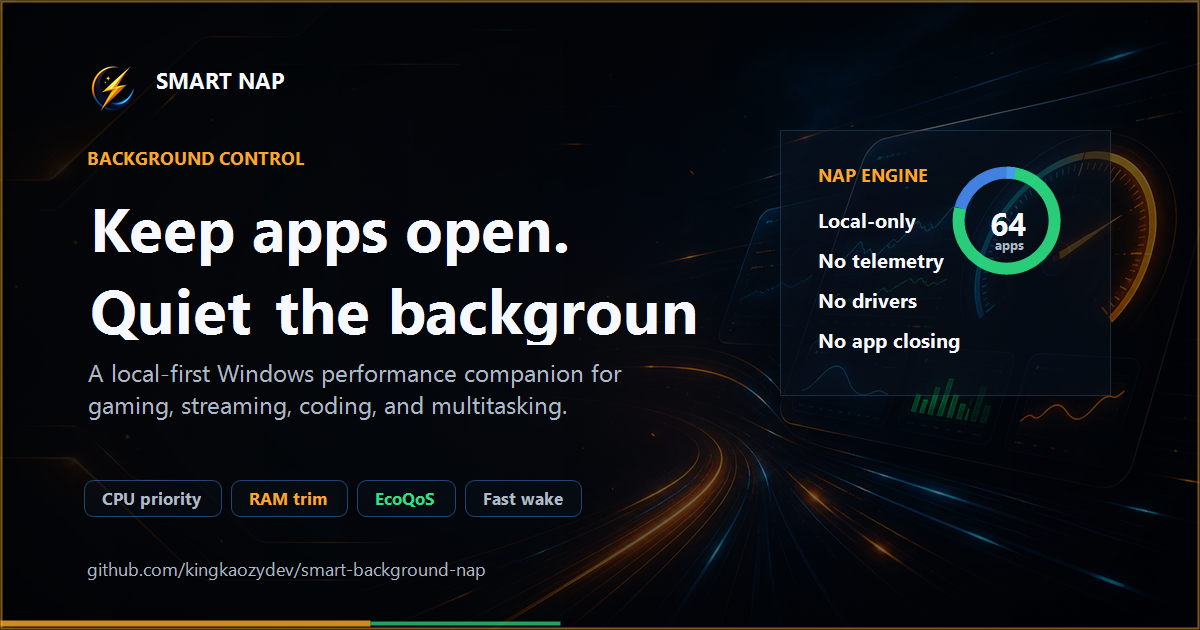
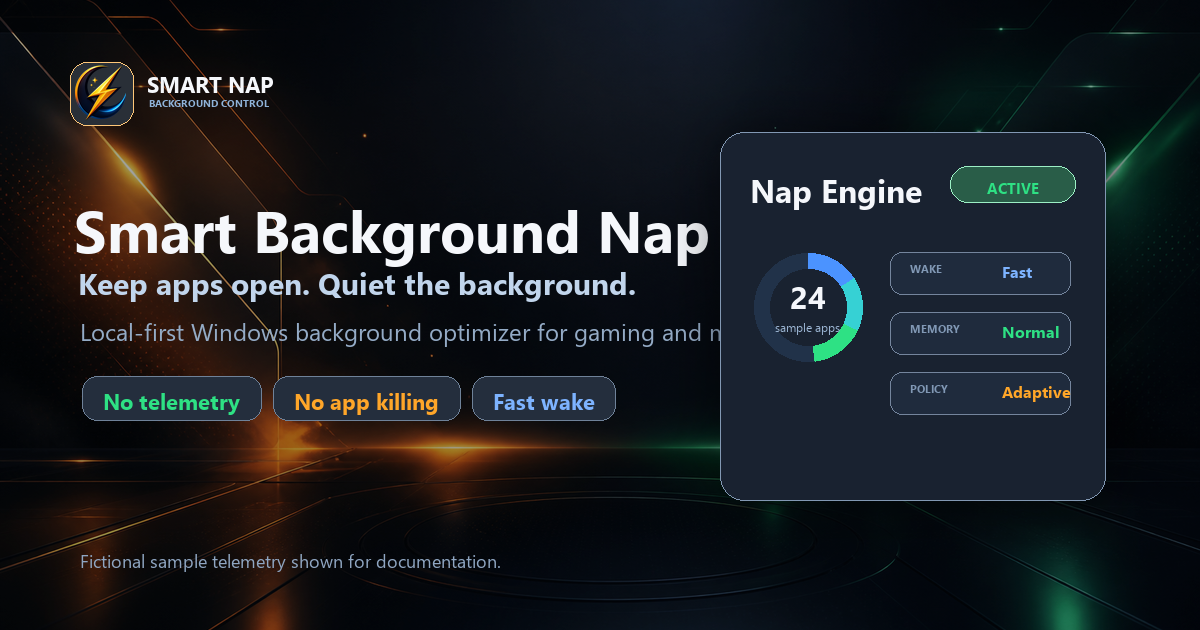
Anonymize public documentation examples

diff --git a/src/launcher/dashboard.html b/src/launcher/dashboard.html
@@ -214,7 +214,7 @@ button{font:inherit}
     <p data-i18n="learningModalBody">This optional mode learns how your apps behave and adapts future nap passes without sending data anywhere.</p>
     <ul class="infoList">
       <li data-i18n="learningModalLocal">Profiles stay local on this PC and are based on process name/path, memory use, CPU bursts, and wake events.</li>
-      <li data-i18n="learningModalWake">Apps you switch back to often get a lighter Fast Wake profile, so Discord, browsers, and tools wake faster.</li>
+      <li data-i18n="learningModalWake">Apps you switch back to often get a lighter Fast Wake profile, so chat apps, browsers, and tools wake faster.</li>
       <li data-i18n="learningModalPressure">When memory pressure rises, heavy idle background apps can receive a stronger nap automatically.</li>
       <li data-i18n="learningModalSafe">It does not kill apps, change drivers, change power plans, or upload telemetry.</li>
     </ul>

diff --git a/tools/art/render-readme-images.py b/tools/art/render-readme-images.py
@@ -151,8 +151,8 @@ def draw_dashboard(base: Image.Image, x: int, y: int, w: int, h: int):
     col_action = int(table_w * 0.76)
     for px2, label in [(col_app, "App"), (col_score, "Score"), (col_delta, "Delta"), (col_cpu, "CPU"), (col_action, "Action")]:
         text(d, (table[0] + px2, header_y + 10), label, 14, "#a9bad0", True)
-    rows = [("Discord", "164.6", "403.9 MB", "0.0", "Light / OK"),
-            ("zen", "148.8", "0.0 MB", "0.7", "Balanced")]
+    rows = [("Chat App", "164.6", "403.9 MB", "0.0", "Light / OK"),
+            ("Browser Demo", "148.8", "0.0 MB", "0.7", "Balanced")]
     for i, row in enumerate(rows):
         ry = header_y + 45 + i * 38
         d.line((table[0] + 22, ry + 30, table[2] - 22, ry + 30), fill=(43, 65, 92, 150))
@@ -252,11 +252,39 @@ def make_intelligence():
     img.save(DOC_IMAGES / "smart-nap-intelligence.png", quality=94)
 
 
+def make_social_preview():
+    img = canvas((1200, 630))
+    d = ImageDraw.Draw(img)
+    draw_logo_lockup(img, 70, 62, 0.72)
+    text(d, (74, 190), "Smart Background Nap", 58, bold=True)
+    text(d, (78, 262), "Keep apps open. Quiet the background.", 30, "#c1d5ec", True)
+    text(d, (80, 315), "Local-first Windows background optimizer for gaming and multitasking.", 24, "#94abc6")
+    px = 82
+    for label, color in [("No telemetry", "#2ee184"), ("No app killing", "#ffa629"), ("Fast wake", "#7db3ff")]:
+        px += pill(d, px, 376, label, color, bg=(13, 24, 40, 230)) + 12
+
+    panel = (720, 132, 1105, 500)
+    shadow_box(img, panel, 24, (9, 19, 34, 238), (73, 106, 145, 175))
+    text(d, (panel[0] + 30, panel[1] + 36), "Nap Engine", 32, bold=True)
+    d.rounded_rectangle((panel[2] - 155, panel[1] + 34, panel[2] - 30, panel[1] + 70), radius=18, fill=(13, 72, 48, 225), outline=(46, 225, 132, 120))
+    text(d, (panel[2] - 92, panel[1] + 45), "ACTIVE", 15, "#2ee184", True, "ma")
+    draw_ring(d, panel[0] + 88, panel[1] + 175, 54, 0.72, 16)
+    text(d, (panel[0] + 88, panel[1] + 164), "24", 31, bold=True, anchor="mm")
+    text(d, (panel[0] + 88, panel[1] + 195), "sample apps", 12, "#9eb8d6", anchor="mm")
+    for i, (k, v, col) in enumerate([("WAKE", "Fast", "#7db3ff"), ("MEMORY", "Normal", "#2ee184"), ("POLICY", "Adaptive", "#ffa629")]):
+        y = panel[1] + 120 + i * 60
+        d.rounded_rectangle((panel[0] + 170, y, panel[2] - 35, y + 42), radius=12, fill=(12, 26, 45, 235), outline=(47, 73, 108, 170))
+        text(d, (panel[0] + 190, y + 9), k, 11, "#8198b5", True)
+        text(d, (panel[0] + 282, y + 8), v, 16, col, True)
+    text(d, (80, 548), "Fictional sample telemetry shown for documentation.", 18, "#8fa6c2")
+    img.save(DOC_IMAGES / "smart-nap-social-preview.png", quality=94)
+
 def main():
     DOC_IMAGES.mkdir(parents=True, exist_ok=True)
     make_showcase()
     make_engine_story()
     make_intelligence()
+    make_social_preview()
 
 
 if __name__ == "__main__":

diff --git a/RELEASE_NOTES.md b/RELEASE_NOTES.md
@@ -5,12 +5,11 @@ Hardware telemetry accuracy release: corrected GPU VRAM reporting, live effectiv
 ## Highlights
 
 - Single-file release: download and run `SmartBackgroundNap.exe`.
-- Fixed GPU VRAM detection by preferring the display driver's `HardwareInformation.qwMemorySize` value when WMI reports a capped `AdapterRAM` value.
+- Fixed GPU VRAM detection by preferring driver-reported video memory when Windows exposes capped adapter-memory values.
 - Fixed CPU frequency display so the dashboard shows base clock plus live effective clock from Windows processor performance counters.
-- Removed misleading frozen `max 2.5 GHz` style output when Windows only exposes base clock data.
-- The RTX 4060 class reading now resolves from 4 GB capped WMI output to the driver-reported ~8 GB value when exposed by Windows.
+- Removed misleading frozen base-clock style output when Windows only exposes static CPU clock data.
 - Fixed the native maximize button so the launcher fills the Windows work area instead of opening in a capped half-size state.
-- GPU driver detail now shows vendor-friendly labels, including NVIDIA package versions such as 595.79 instead of raw Windows WDDM versions such as 32.0.15.9579.
+- GPU driver detail now shows vendor-friendly labels when safely inferable instead of exposing raw OS driver identifiers as the primary display value.
 - The dark native WebView2 frame, grouped Live Manager, Smart Learning, Permission Guard, PC Profile, tray telemetry, and local-only trust model remain included.
 
 ## Included
@@ -23,7 +22,7 @@ Hardware telemetry accuracy release: corrected GPU VRAM reporting, live effectiv
 SHA-256 for `SmartBackgroundNap.exe`:
 
 ```text
[2 lines of base64/hex data omitted]
 ```
 
 ## Trust Notes

diff --git a/CHANGELOG.md b/CHANGELOG.md
@@ -1,11 +1,11 @@
 # Changelog
 ## 0.4.4 - 2026-07-15
 
-- Fixed GPU VRAM detection by reading the display driver's HardwareInformation.qwMemorySize registry value instead of trusting capped WMI AdapterRAM values.
+- Fixed GPU VRAM detection by preferring driver-reported video memory when Windows exposes capped adapter-memory values.
 - Fixed CPU frequency display: the dashboard now labels base clock correctly and calculates live effective clock from processor performance counters when available.
-- Removed misleading max 2.5 GHz style output when Windows only exposes the CPU base clock.
+- Removed misleading frozen base-clock style output when Windows only exposes static CPU clock data.
 - Fixed the native maximize button so the WebView2 launcher fills the Windows work area instead of opening in a half-sized capped window.
-- GPU driver detail now shows vendor-friendly labels, including NVIDIA package versions such as 595.79 instead of raw Windows WDDM versions such as 32.0.15.9579.
+- GPU driver detail now shows vendor-friendly labels when safely inferable instead of exposing raw OS driver identifiers as the primary display value.
 
 ## 0.4.3 - 2026-07-15
 

diff --git a/README.md b/README.md
@@ -2,6 +2,8 @@
 
 ![Smart Background Nap social preview](docs/images/smart-nap-social-preview.png)
 
+> All documentation screenshots use fictional sample app names, fictional telemetry, and generic hardware labels.
+
 **Smart Background Nap** is a local-first Windows performance companion for people who keep a lot of apps open while gaming, streaming, coding, recording, or multitasking.
 
 It does not close your apps or pretend to be a magic FPS button. It watches the current user session, identifies safe background processes, gives them a quieter profile, and restores responsiveness when you bring an app back to the foreground.